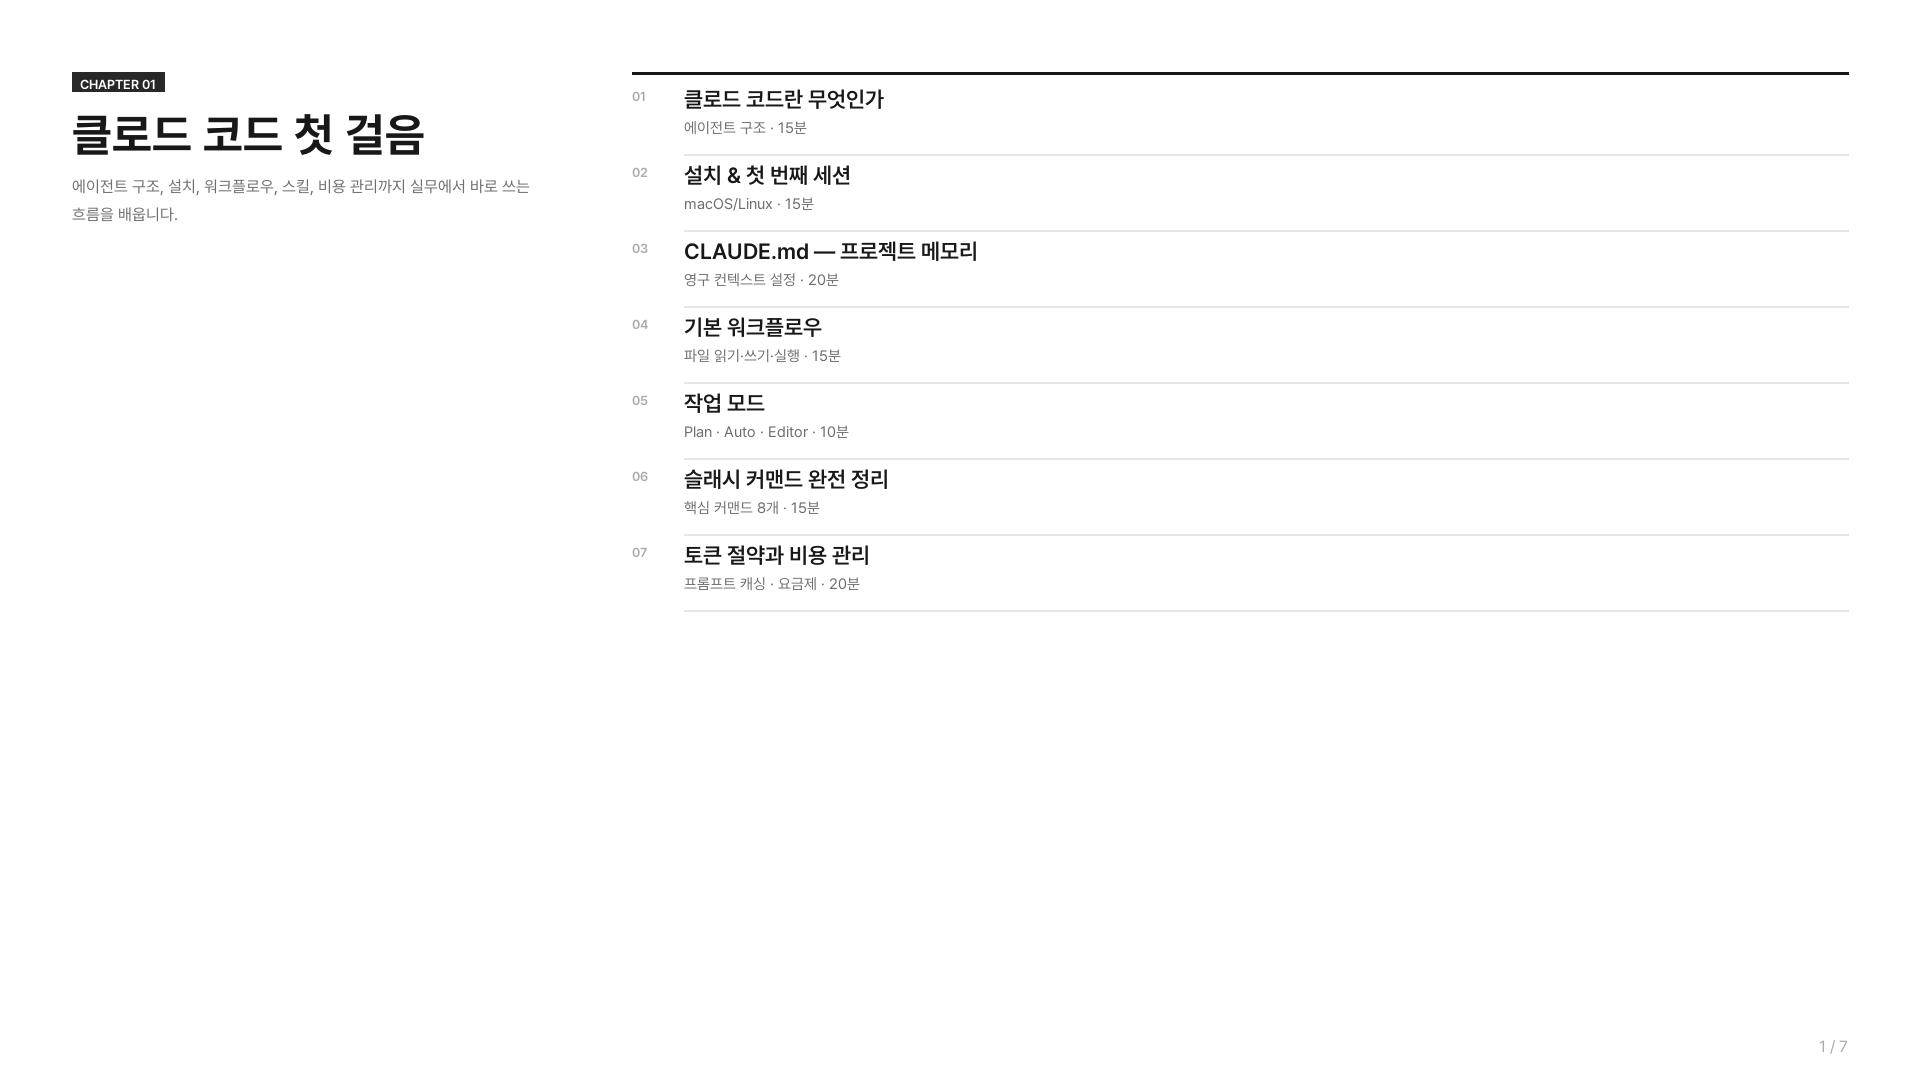
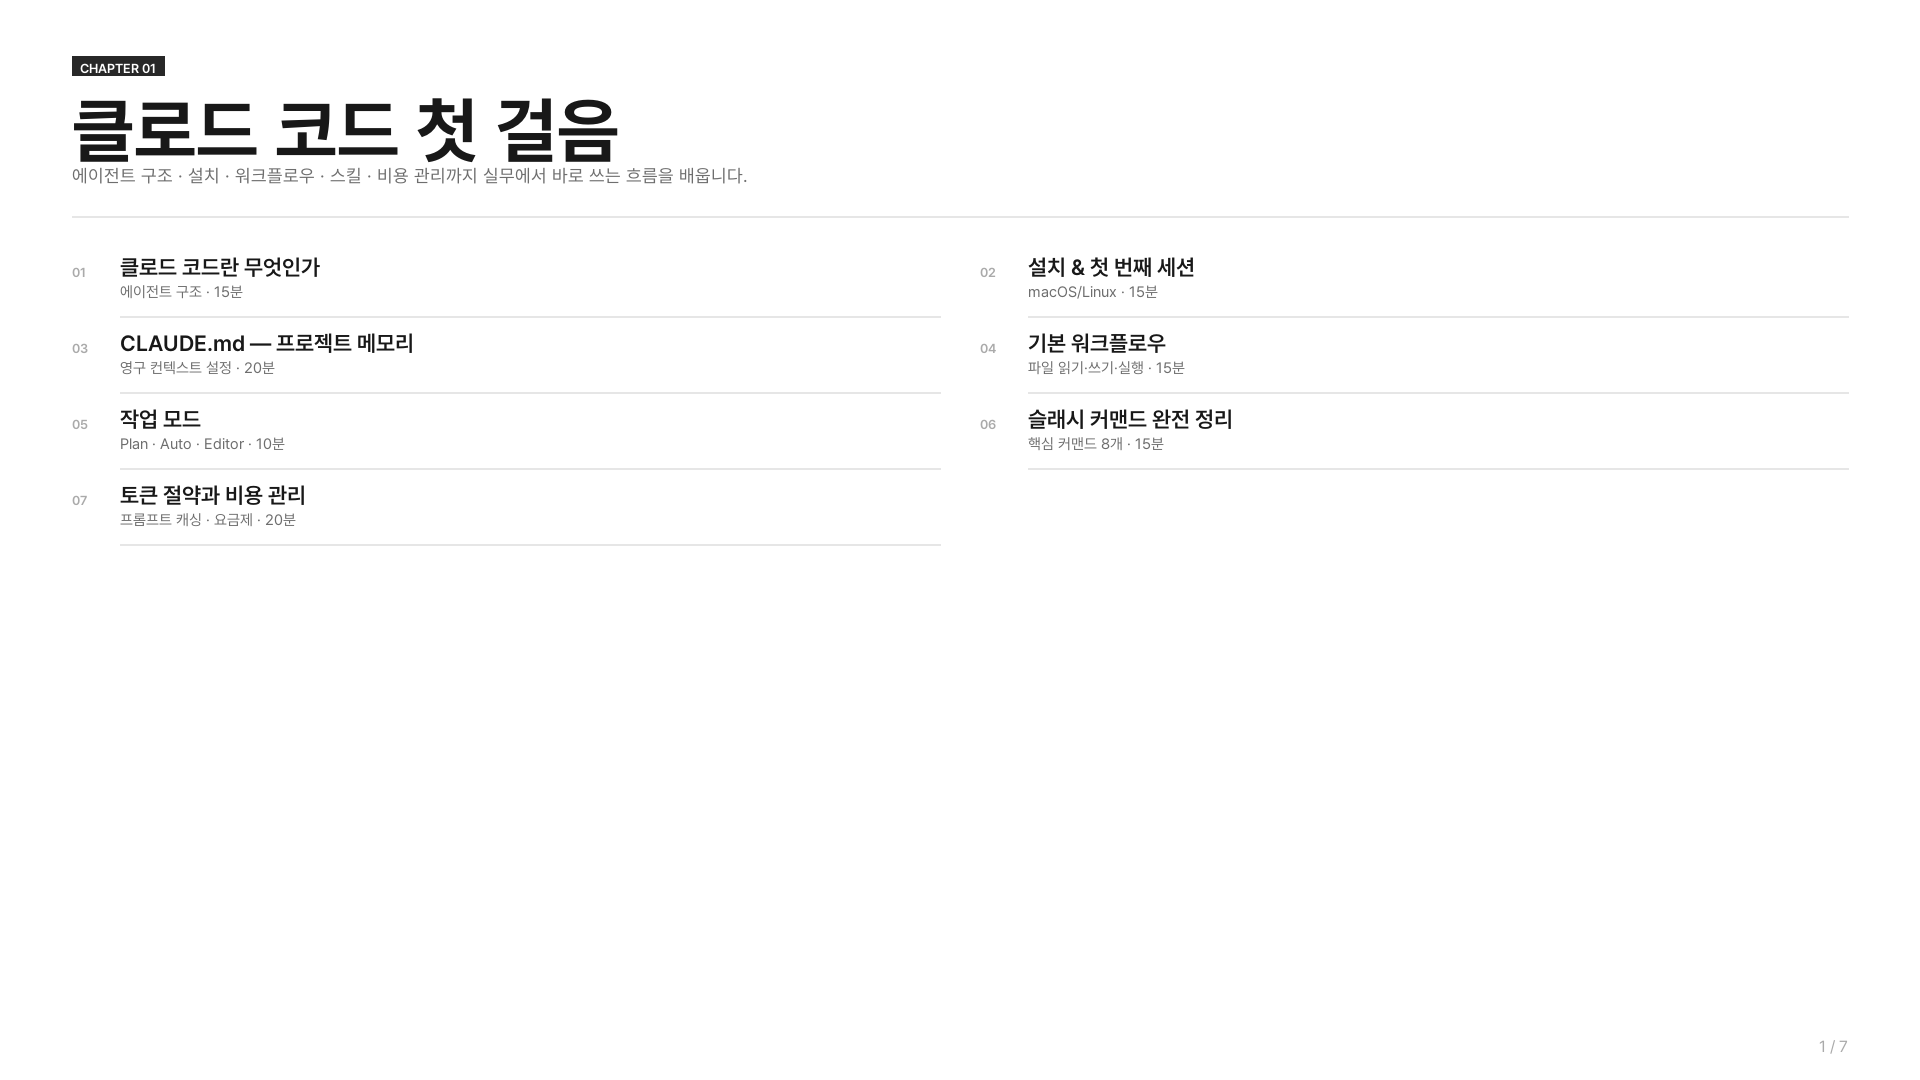
CH01 레이아웃 개선: 도식 슬라이드 전체 폭 적용 (01·03·06)

Changed region(s): [[0.0312, 0.0306, 0.9375, 0.55], [0.0625, 0.3056, 0.2188, 0.4889]]

diff --git a/scripts/make_ch01_ref.py b/scripts/make_ch01_ref.py
@@ -99,15 +99,13 @@ def new_slide():
     return img,d
 
 def left_col(d, category, title, desc="", title_sz=42):
-    """레퍼런스 스타일 좌측 컬럼: 소라벨 → 대형 볼드 제목 → 회색 설명"""
+    """좌/우 분할용 좌측 컬럼: 소라벨 → 대형 볼드 제목 → 회색 설명"""
     y=72
-    # 카테고리 라벨 (작고 어두운 배지)
     f_cat=F(13,"sb")
     cw=tw(d,category,f_cat)+16; ch_=th(d,category,f_cat)+8
     d.rectangle([LEFT_X,y,LEFT_X+cw,y+ch_],fill=BADGE)
     d.text((LEFT_X+8,y+4),category,font=f_cat,fill=WHITE)
     y+=ch_+16
-    # 메인 제목 (대형 볼드, 좌측폭 내 자동 줄바꿈)
     f_t=F(title_sz,"b")
     words=title.split(); lines=[]; cur=""
     for w in words:
@@ -118,10 +116,30 @@ def left_col(d, category, title, desc="", title_sz=42):
     for line in lines:
         d.text((LEFT_X,y),line,font=f_t,fill=C900); y+=int(th(d,line,f_t)*1.2)
     y+=20
-    # 설명 텍스트
     if desc:
         y=wT(d,LEFT_X,y,desc,16,"r",C500,LEFT_W,lh=1.7)
-    return y  # 좌측 콘텐츠 끝 y
+    return y
+
+# 전체 폭 레이아웃 마진
+FULL_X  = 72          # 전체 폭 시작
+FULL_W  = W - FULL_X*2
+
+def top_header(d, category, title, desc="", title_sz=38):
+    """전체 폭 레이아웃용 상단 헤더: 좌상단 소라벨 + 볼드 제목 + 설명 → 콘텐츠 Y 반환"""
+    y=56
+    f_cat=F(13,"sb")
+    cw=tw(d,category,f_cat)+16; ch_=th(d,category,f_cat)+8
+    d.rectangle([FULL_X,y,FULL_X+cw,y+ch_],fill=BADGE)
+    d.text((FULL_X+8,y+4),category,font=f_cat,fill=WHITE)
+    y+=ch_+10
+    f_t=F(title_sz,"b")
+    d.text((FULL_X,y),title,font=f_t,fill=C900)
+    y+=th(d,title,f_t)+10
+    if desc:
+        y=wT(d,FULL_X,y,desc,15,"r",C500,FULL_W*0.55,lh=1.5)
+    y+=24
+    hline(d,FULL_X,y,FULL_W,C100)
+    return y+20   # 콘텐츠 시작 Y
 
 def page_num(d, n, total):
     f=F(16,"r")
@@ -134,14 +152,25 @@ def save(img, filename):
     print(f"✓ {path}")
 
 # ══════════════════════════════════════════════════════════════
-# SLIDE 01 — 챕터 타이틀
+# SLIDE 01 — 챕터 타이틀 (전체 폭 레이아웃)
 # ══════════════════════════════════════════════════════════════
 img,d=new_slide()
 
-left_col(d,"CHAPTER 01","클로드 코드\n첫 걸음","에이전트 구조, 설치, 워크플로우, 스킬, 비용 관리까지 실무에서 바로 쓰는 흐름을 배웁니다.",title_sz=46)
+# 상단: 대형 제목 블록
+y=56
+f_cat=F(13,"sb")
+cw_=tw(d,"CHAPTER 01",f_cat)+16; ch__=th(d,"CHAPTER 01",f_cat)+8
+d.rectangle([FULL_X,y,FULL_X+cw_,y+ch__],fill=BADGE)
+d.text((FULL_X+8,y+4),"CHAPTER 01",font=f_cat,fill=WHITE)
+y+=ch__+12
+f_big=F(72,"b")
+d.text((FULL_X,y),"클로드 코드 첫 걸음",font=f_big,fill=C900)
+y+=th(d,"클로드 코드 첫 걸음",f_big)+12
+wT(d,FULL_X,y,"에이전트 구조 · 설치 · 워크플로우 · 스킬 · 비용 관리까지 실무에서 바로 쓰는 흐름을 배웁니다.",18,"r",C500,FULL_W*0.7)
+y+=52
+hline(d,FULL_X,y,FULL_W,C100); y+=28
 
-# 우측: 클립 목록 (레퍼런스 3의 번호 리스트 스타일)
-hline(d,RIGHT_X,72,RIGHT_W,C900,2)
+# 클립 목록 — 2열 그리드 전체 폭
 clips=[
     ("01","클로드 코드란 무엇인가","에이전트 구조 · 15분"),
     ("02","설치 & 첫 번째 세션","macOS/Linux · 15분"),
@@ -151,17 +180,14 @@ clips=[
     ("06","슬래시 커맨드 완전 정리","핵심 커맨드 8개 · 15분"),
     ("07","토큰 절약과 비용 관리","프롬프트 캐싱 · 요금제 · 20분"),
 ]
-cy=88
-for num,title,sub in clips:
-    f_n=F(13,"sb"); f_t=F(22,"sb"); f_s=F(15,"r")
-    # 번호
-    d.text((RIGHT_X,cy),num,font=f_n,fill=C300)
-    # 제목
-    d.text((RIGHT_X+52,cy-2),title,font=f_t,fill=C900)
-    # 서브
-    d.text((RIGHT_X+52,cy+30),sub,font=f_s,fill=C500)
-    cy+=76
-    hline(d,RIGHT_X+52,cy-10,RIGHT_W-52,C100)
+COL2=(FULL_W-40)//2; ROW_H2=76
+for i,(num,title,sub) in enumerate(clips):
+    col=i%2; row=i//2
+    cx=FULL_X+col*(COL2+40); cy=y+row*ROW_H2
+    T(d,cx,cy+20,num,13,"sb",C300)
+    d.text((cx+48,cy+10),title,font=F(22,"sb"),fill=C900)
+    d.text((cx+48,cy+38),sub,font=F(15,"r"),fill=C500)
+    hline(d,cx+48,cy+ROW_H2-4,COL2-48,C100)
 
 page_num(d,1,7)
 save(img,"01_title.png")
@@ -210,14 +236,17 @@ page_num(d,2,7)
 save(img,"02_comparison.png")
 
 # ══════════════════════════════════════════════════════════════
-# SLIDE 03 — 에이전트 루프 (레퍼런스 2 저니맵 스타일)
+# SLIDE 03 — 에이전트 루프 (전체 폭 · 저니맵 스타일)
 # ══════════════════════════════════════════════════════════════
 img,d=new_slide()
-left_col(d,"CH01-01","에이전트 루프란","목표를 받아 계획하고, 도구를 선택해 실행한 뒤 결과를 검증하는 과정이 반복됩니다.")
+cy_s=top_header(d,"CH01-01","에이전트 루프","목표를 받아 계획하고, 도구를 선택해 실행한 뒤 결과를 검증하는 과정이 반복됩니다.",title_sz=36)
 
-hline(d,RIGHT_X,72,RIGHT_W,C900,2)
+# ── 저니맵 스타일 라벨 행 ──────────────────────────
+T(d,FULL_X,cy_s,"Action",14,"sb",C300)
+hline(d,FULL_X+72,cy_s+8,FULL_W-72,C100)
+cy_s+=34
 
-# 저니맵 스타일 수평 플로우 (레퍼런스 2)
+# 수평 플로우 (전체 폭)
 steps=[
     ("사용자 지시","요청 전달"),
     ("계획","순서·방법 결정"),
@@ -226,58 +255,41 @@ steps=[
     ("결과 확인","성공 여부 검증"),
     ("완료","보고 또는 반복"),
 ]
-n=len(steps)
-STEP_W=RIGHT_W//n; sy=100
-
-# 스텝 라벨 행 (Action 행)
-f_row=F(13,"sb"); f_sl=F(17,"sb"); f_sd=F(14,"r")
-T(d,RIGHT_X-60,sy+24,"Action",13,"sb",C300)
-hline(d,RIGHT_X,sy,RIGHT_W,C900,1)  # 상단 선
-
-# 각 스텝
-arrow_y=sy+80
+n=len(steps); STEP_W=FULL_W//n; ARR_Y=cy_s+72
 for i,(title,desc) in enumerate(steps):
-    sx=RIGHT_X+i*STEP_W
-    cx=sx+STEP_W//2
-    # 스텝 원
-    is_first=(i==0)
-    r=20
+    sx=FULL_X+i*STEP_W; cx=sx+STEP_W//2
+    is_first=(i==0); r=22
     fill=C900 if is_first else C050
-    outline=C900
-    d.ellipse([cx-r,arrow_y-r,cx+r,arrow_y+r],fill=fill,outline=outline,width=2)
-    # 번호
-    nd=str(i+1); f_n=F(17,"b")
-    d.text((cx-tw(d,nd,f_n)//2,arrow_y-th(d,nd,f_n)//2),nd,font=f_n,fill=WHITE if is_first else C700)
-    # 화살표
+    d.ellipse([cx-r,ARR_Y-r,cx+r,ARR_Y+r],fill=fill,outline=C900,width=2)
+    nd=str(i+1); fn=F(18,"b")
+    d.text((cx-tw(d,nd,fn)//2,ARR_Y-th(d,nd,fn)//2),nd,font=fn,fill=WHITE if is_first else C700)
     if i<n-1:
-        ax=sx+STEP_W-4; ay=arrow_y
-        d.line([(cx+r+2,ay),(ax,ay)],fill=C300,width=1)
-        d.polygon([(ax,ay-5),(ax+8,ay),(ax,ay+5)],fill=C300)
-    # 타이틀
-    T(d,cx,arrow_y+r+14,title,17,"sb",C900,"center")
-    # 설명
-    T(d,cx,arrow_y+r+40,desc,14,"r",C500,"center")
+        ax_s=cx+r+4; ax_e=FULL_X+(i+1)*STEP_W+((i+1)*STEP_W//2)-r-4
+        ay=ARR_Y
+        d.line([(ax_s,ay),(ax_e,ay)],fill=C300,width=1)
+        d.polygon([(ax_e,ay-5),(ax_e+8,ay),(ax_e,ay+5)],fill=C300)
+    T(d,cx,ARR_Y+r+14,title,18,"sb",C900,"center")
+    T(d,cx,ARR_Y+r+40,desc,14,"r",C500,"center")
 
-# 하단 선 + "반복" 라벨
-loop_y=arrow_y+80
-hline(d,RIGHT_X,loop_y,RIGHT_W,C100)
-T(d,RIGHT_X+RIGHT_W//2,loop_y+12,"↑  이 과정이 반복 → 에이전트 루프(Agent Loop)",16,"r",C500,"center")
+loop_y=ARR_Y+100
+hline(d,FULL_X,loop_y,FULL_W,C100)
+T(d,FULL_X+FULL_W//2,loop_y+14,"↑  이 과정이 반복되는 것을 에이전트 루프(Agent Loop)라고 합니다",16,"r",C500,"center")
 
-# 도구 요약 (3열)
+# ── 도구 요약 3열 (전체 폭) ──────────────────────
 tool_y=loop_y+56
-hline(d,RIGHT_X,tool_y,RIGHT_W,C100)
-T(d,RIGHT_X,tool_y+16,"클로드 코드가 가진 도구",14,"sb",C300)
-CW3=RIGHT_W//3
+hline(d,FULL_X,tool_y,FULL_W,C100)
+T(d,FULL_X,tool_y+14,"클로드 코드가 루프에서 사용하는 도구",13,"sb",C300)
+CW3=FULL_W//3; ty_base=tool_y+50
 for i,(cat,items) in enumerate([
     ("파일 관련",["파일 읽기 (Read)","파일 쓰기 (Write)","파일 검색 (Glob)"]),
-    ("실행 관련",["터미널 명령어 (Bash)","코드 실행 (Python)"]),
+    ("실행 관련",["터미널 명령어 (Bash)","코드 실행 (Python/Shell)"]),
     ("검색 관련",["코드베이스 검색","웹 검색 (설정 시)"]),
 ]):
-    cx3=RIGHT_X+i*CW3; ty3=tool_y+44
-    T(d,cx3,ty3,cat,15,"sb",C700); ty3+=24
+    cx3=FULL_X+i*CW3; ty3=ty_base
+    T(d,cx3,ty3,cat,16,"sb",C700); ty3+=26
     for item in items:
         T(d,cx3,ty3,"·  "+item,15,"r",C500); ty3+=26
-    if i<2: hline(d,RIGHT_X+i*CW3+CW3,tool_y+44,1,C100,H-tool_y-72)
+    if i<2: hline(d,FULL_X+i*CW3+CW3,tool_y+48,1,C100,H-tool_y-60)
 
 page_num(d,3,7)
 save(img,"03_agent_loop.png")
@@ -380,37 +392,35 @@ page_num(d,5,7)
 save(img,"05_claude_md.png")
 
 # ══════════════════════════════════════════════════════════════
-# SLIDE 06 — 슬래시 커맨드
+# SLIDE 06 — 슬래시 커맨드 (전체 폭 테이블)
 # ══════════════════════════════════════════════════════════════
 img,d=new_slide()
-left_col(d,"CH01-06","슬래시 커맨드","세션 안에서 동작을 제어하는 명령어. / 로 시작하며 자동완성을 지원합니다.")
-
-hline(d,RIGHT_X,72,RIGHT_W,C900,2)
+cy_s=top_header(d,"CH01-06","슬래시 커맨드","세션 안에서 동작을 제어하는 명령어. / 로 시작하며 탭 자동완성을 지원합니다.",title_sz=36)
 
 # 3열 헤더
-C1=RIGHT_X; C2=RIGHT_X+240; C3=RIGHT_X+820
-T(d,C1,84,"커맨드",13,"sb",C300); T(d,C2,84,"기능",13,"sb",C300); T(d,C3,84,"언제",13,"sb",C300)
-hline(d,RIGHT_X,104,RIGHT_W,C900,1)
+C1=FULL_X; C2=FULL_X+240; C3=FULL_X+900
+T(d,C1,cy_s,"커맨드",13,"sb",C300); T(d,C2,cy_s,"기능 설명",13,"sb",C300); T(d,C3,cy_s,"언제 쓰나",13,"sb",C300)
+hline(d,FULL_X,cy_s+22,FULL_W,C900,1); ry=cy_s+30
 
 cmds=[
     ("/init",    "프로젝트 분석 후 CLAUDE.md 자동 생성",       "처음 시작 시 한 번"),
-    ("/compact", "긴 대화 요약 — 토큰·비용 절약",             "대화 길어질 때"),
-    ("/clear",   "대화 초기화 — 새 작업 시작",               "새 기능 작업 전"),
-    ("/config",  "설정 화면 열기 (모델·권한 등)",              "설정 변경 시"),
-    ("/doctor",  "설치 상태·인증 확인",                       "오류 발생 첫 점검"),
-    ("/help",    "사용 가능한 커맨드 전체 목록",               "모르는 게 있을 때"),
+    ("/compact", "긴 대화 요약 — 토큰·비용 절약",             "대화가 길어질 때"),
+    ("/clear",   "대화 기록 초기화 — 새 작업 시작",           "새 기능 작업 전"),
+    ("/config",  "설정 화면 열기 (모델·권한 등)",              "설정 변경 필요 시"),
+    ("/doctor",  "설치 상태·버전·인증 상태 확인",              "오류 발생 시 첫 점검"),
+    ("/help",    "사용 가능한 커맨드 전체 목록 표시",           "모르는 게 있을 때"),
     ("/review",  "현재 변경사항 코드 리뷰 요청",               "커밋 전 검토"),
     ("/memory",  "메모리 파일 목록 확인 및 편집",             "CLAUDE.md 관리"),
 ]
-ry=112
+ROW_H_C=56
 for i,(cmd,desc,when) in enumerate(cmds):
     bg=WHITE if i%2==0 else C050
-    d.rectangle([RIGHT_X,ry,RIGHT_X+RIGHT_W,ry+54],fill=bg)
-    d.text((C1+4,ry+15),cmd,font=F(20,"mono"),fill=C700)
-    T(d,C2,ry+17,desc,18,"r",C900)
-    T(d,C3,ry+19,when,16,"r",C500)
-    ry+=54
-hline(d,RIGHT_X,ry,RIGHT_W,C100)
+    d.rectangle([FULL_X,ry,FULL_X+FULL_W,ry+ROW_H_C],fill=bg)
+    d.text((C1+4,ry+16),cmd,font=F(21,"mono"),fill=C700)
+    T(d,C2,ry+18,desc,19,"r",C900)
+    T(d,C3,ry+20,when,16,"r",C500)
+    ry+=ROW_H_C
+hline(d,FULL_X,ry,FULL_W,C100)
 
 page_num(d,6,7)
 save(img,"06_commands.png")
